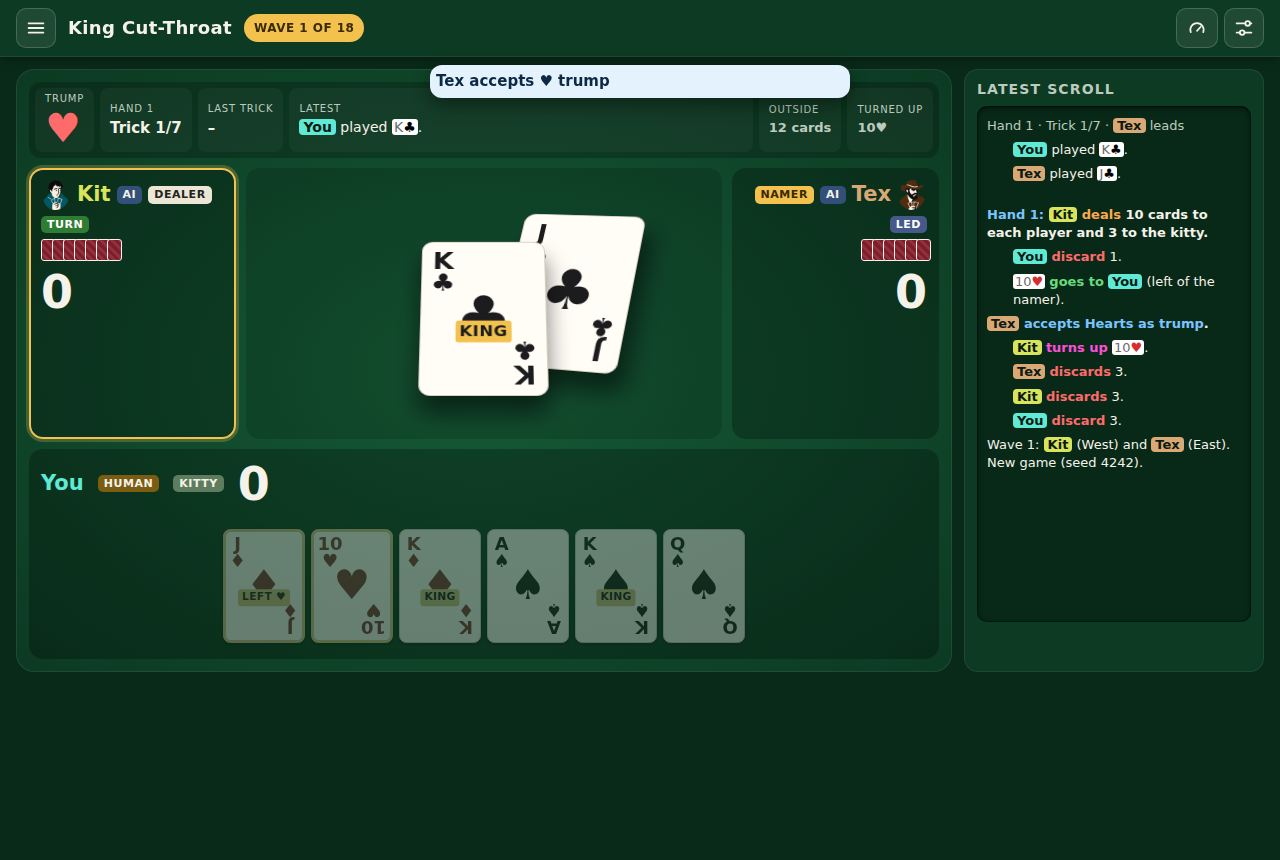
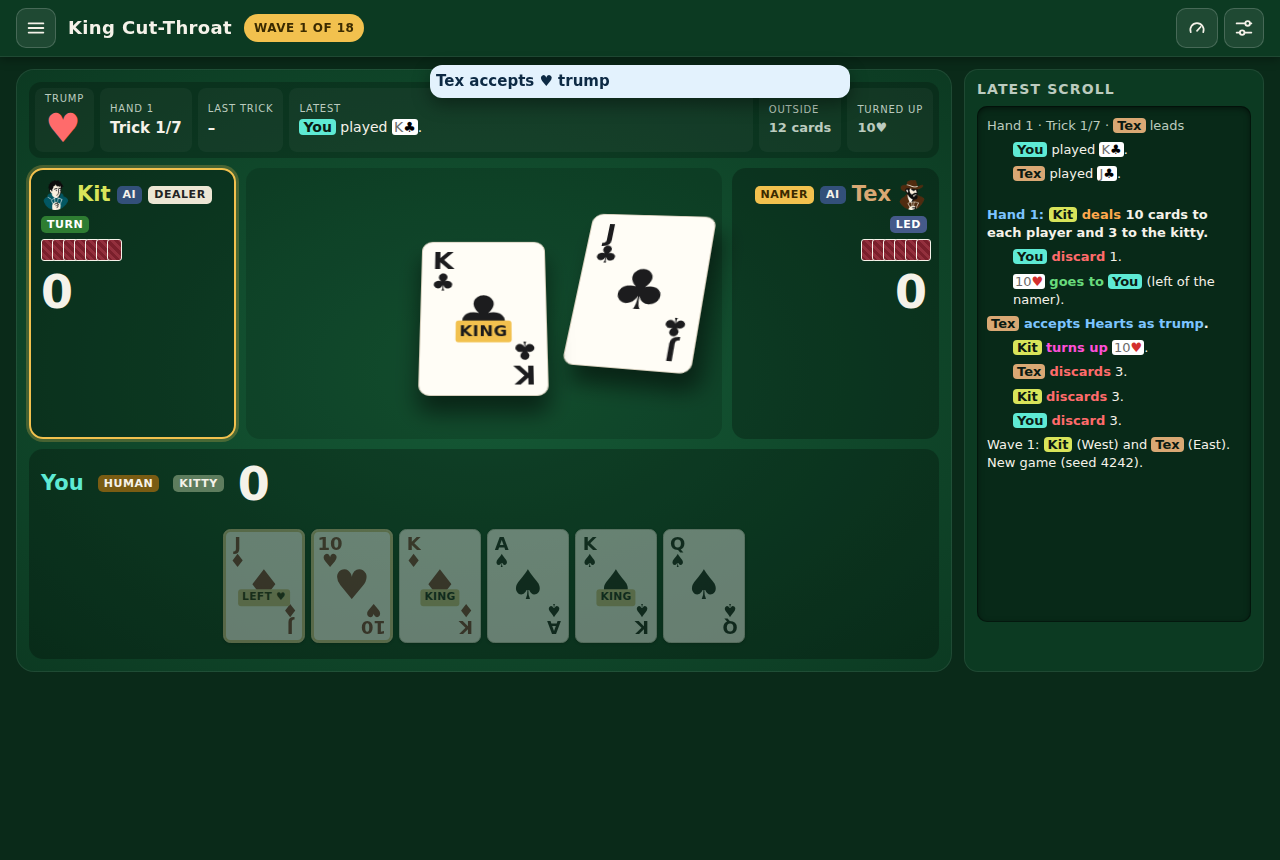
Place each bot trick card toward its own seat
The bot cards sit at their own side of the trick, so each reads as
played from that seat, instead of bunching over your slot.

Claude-Session: https://claude.ai/code/session_01QkpazkapUFZWg4SWZB1dDA

Changed region(s): [[0.4062, 0.2419, 0.5625, 0.4535]]

diff --git a/index.html b/index.html
@@ -2066,7 +2066,7 @@ const UI_PROFILE_ADVANCED = Object.freeze({
   '.who': { kind: 'L, S', show: 'Hidden. The slot\'s position shows who played.', click: null },
   '.summary': { kind: 'S, R', show: 'As now.', click: 'Its Continue button moves on, as now.' },
   '.meta': { kind: 'R', show: 'As now.', click: null },
-  '.trick': { kind: 'S', show: 'As now: one slot per seat, your slot lower than the bot slots, as at a real table. The trick cards are in 3D: the table tilts away from you, each bot card turns to face your slot, and every card lifts with a soft shadow. All trick cards, and your dashed space, are 1.5 times the base card size. The bot cards overlap your slot, like a real pile. Stacking follows play order: each card lies above the cards played before it, and your dashed space, while you still have to play, lies above every card: an outline only, no fill, in a mid tone that shows on the felt and on the cards. A bot that has not played yet shows no placeholder. Reduced motion keeps the pose but drops the transition. At trick end the cards slide to the winner\'s won-trick stack.', click: 'Skips the trick-end wait, as now.', issue: 53 },
+  '.trick': { kind: 'S', show: 'As now: one slot per seat, your slot lower than the bot slots, as at a real table. The trick cards are in 3D: the table tilts away from you, each bot card turns to face your slot, and every card lifts with a soft shadow. All trick cards, and your dashed space, are 1.5 times the base card size. Each bot card lies on its own side of the trick, toward its seat, so it reads as played from that seat; the cards overlap only where the space is narrow. Stacking follows play order: each card lies above the cards played before it, and your dashed space, while you still have to play, lies above every card: an outline only, no fill, in a mid tone that shows on the felt and on the cards. A bot that has not played yet shows no placeholder. Reduced motion keeps the pose but drops the transition. At trick end the cards slide to the winner\'s won-trick stack.', click: 'Skips the trick-end wait, as now.', issue: 53 },
   'table.stats': { kind: 'R', show: 'As now.', click: null },
   '.status': { kind: 'S', show: 'Hidden on screen. #liveStatus still reads the full sentence to screen readers.', click: null, issue: 53 },
   '.lasttrick': { kind: 'R', show: 'Hidden in the center. The Last trick cell of the information strip shows it.', click: null, issue: 53 },

diff --git a/mockups/advanced.js b/mockups/advanced.js
@@ -47,8 +47,8 @@ const css = `
 .trick .slot .card,.trick .slot .empty{--w:calc(var(--cw)*1.22);width:var(--w);height:calc(var(--w)*1.4);transition:transform .3s}
 .trick .slot .card,.trick .slot .empty{--w:calc(var(--cw)*1.5)!important}
 .trick .slot{position:relative}
-.trick .slot-1{justify-self:end;margin-right:calc(var(--cw)*-.55)}
-.trick .slot-2{justify-self:start;margin-left:calc(var(--cw)*-.55)}
+.trick .slot-1{justify-self:start;margin-left:calc(var(--cw)*.1)}
+.trick .slot-2{justify-self:end;margin-right:calc(var(--cw)*.1)}
 .trick .slot .empty{background:none;border-color:#8fa79a}
 .trick .slot-1 .empty,.trick .slot-2 .empty{visibility:hidden}
 .trick{min-height:calc(var(--cw)*3.3)!important}
